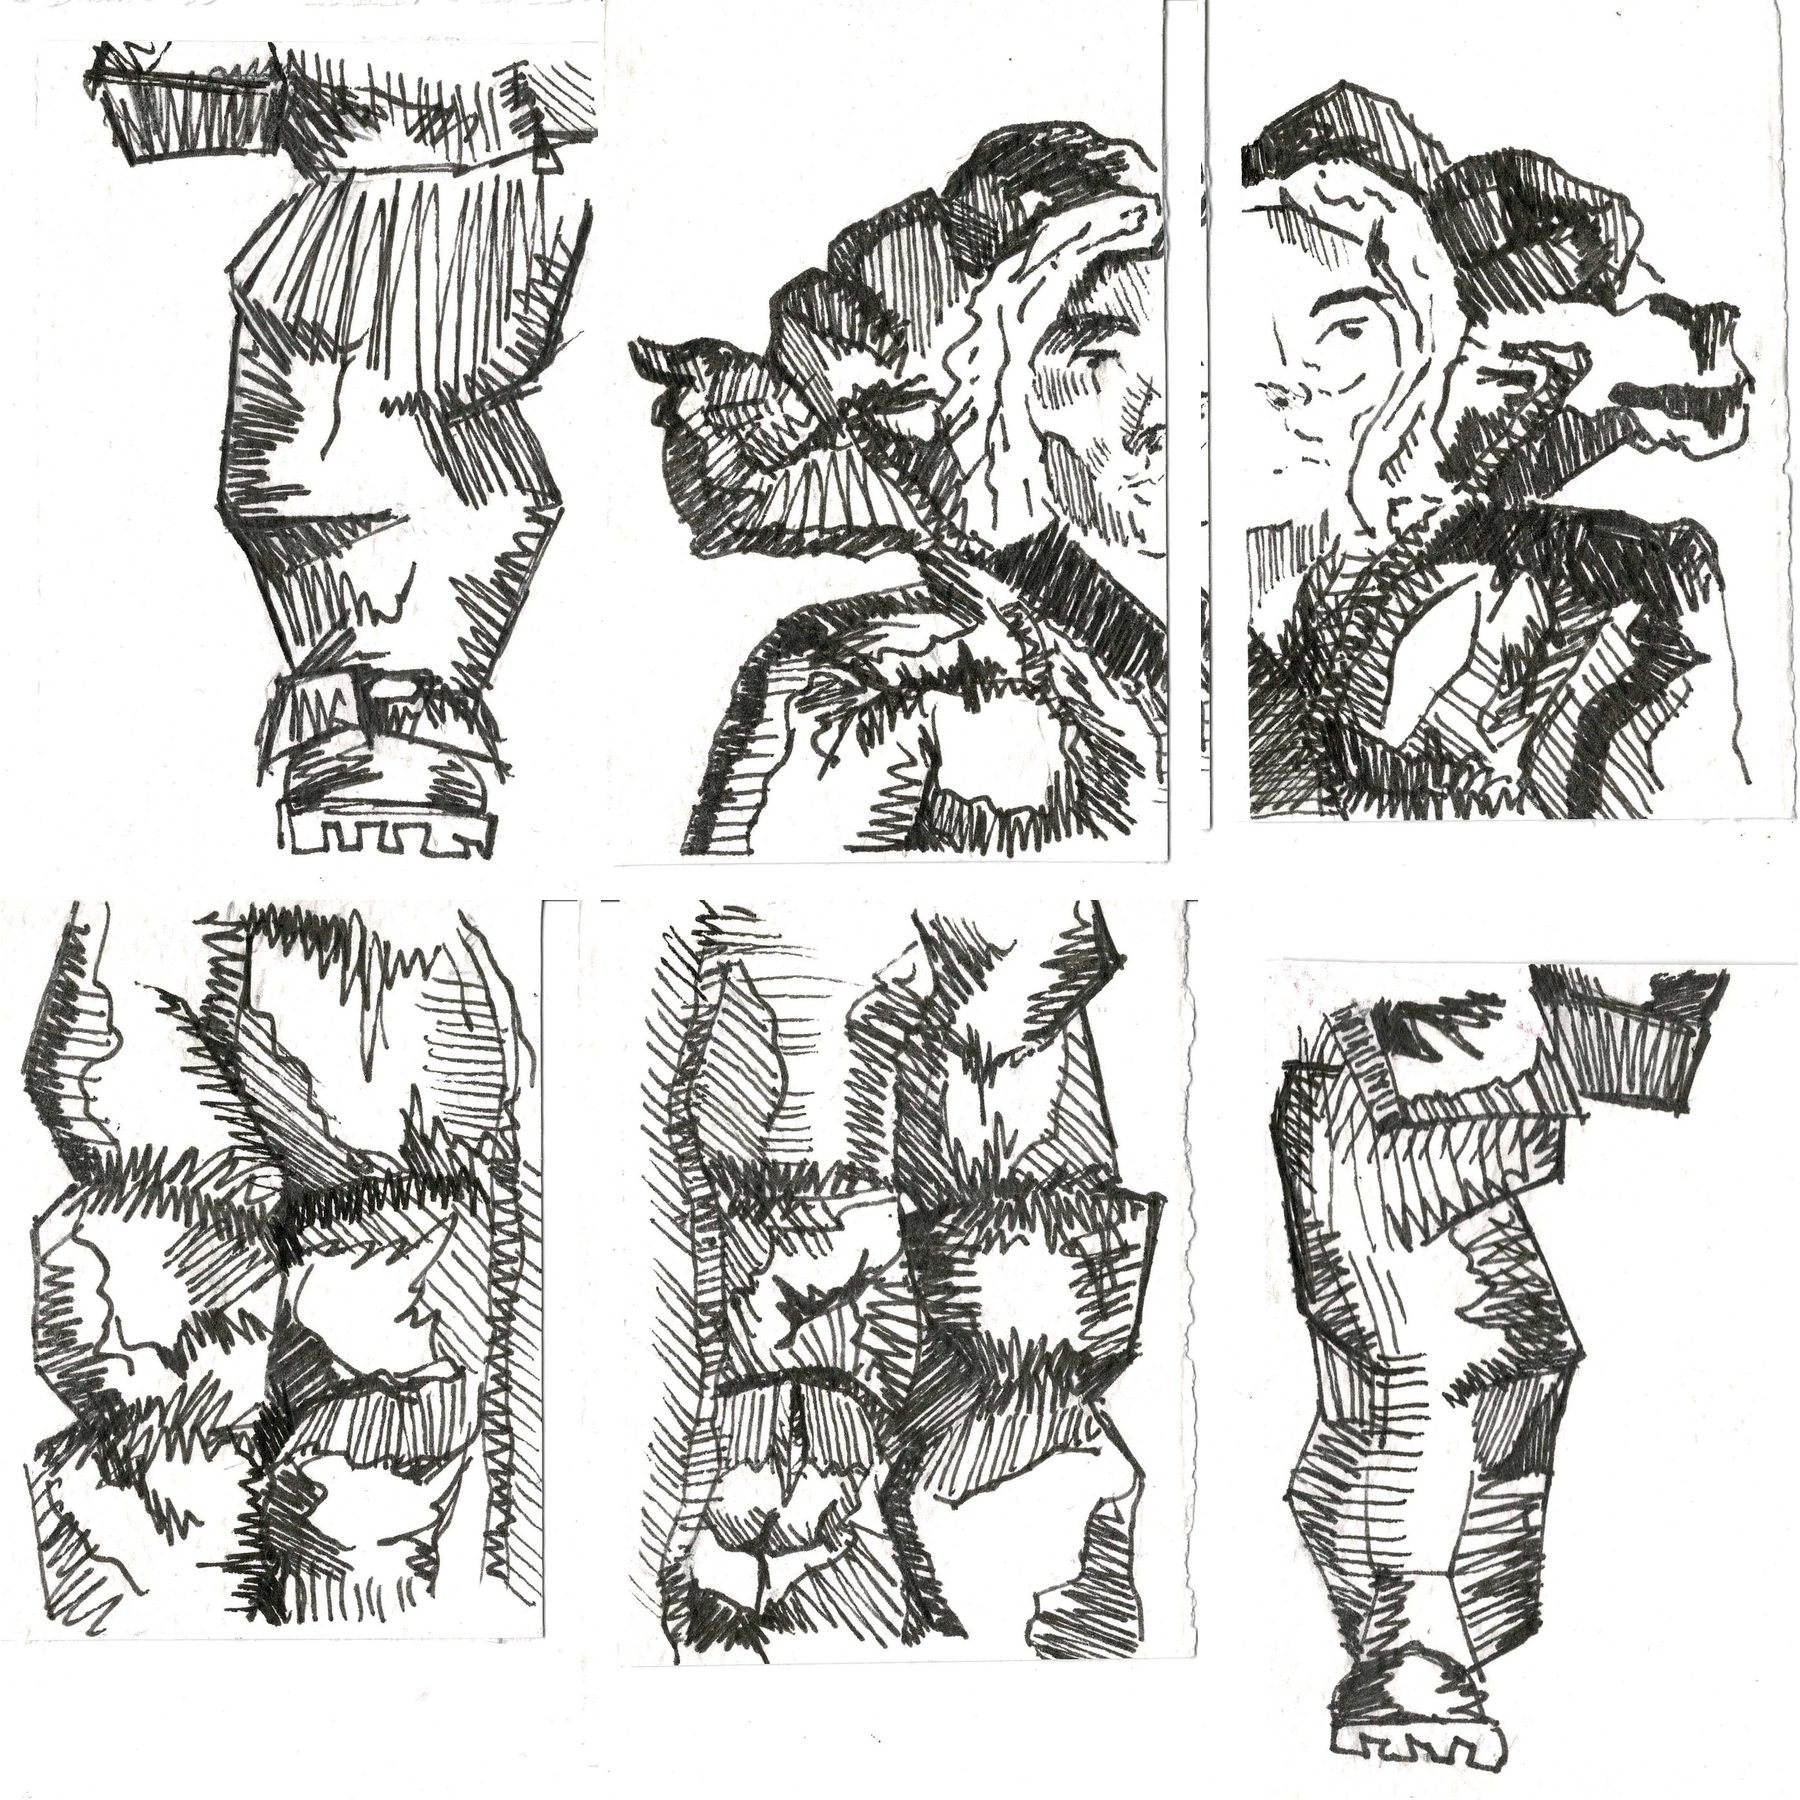
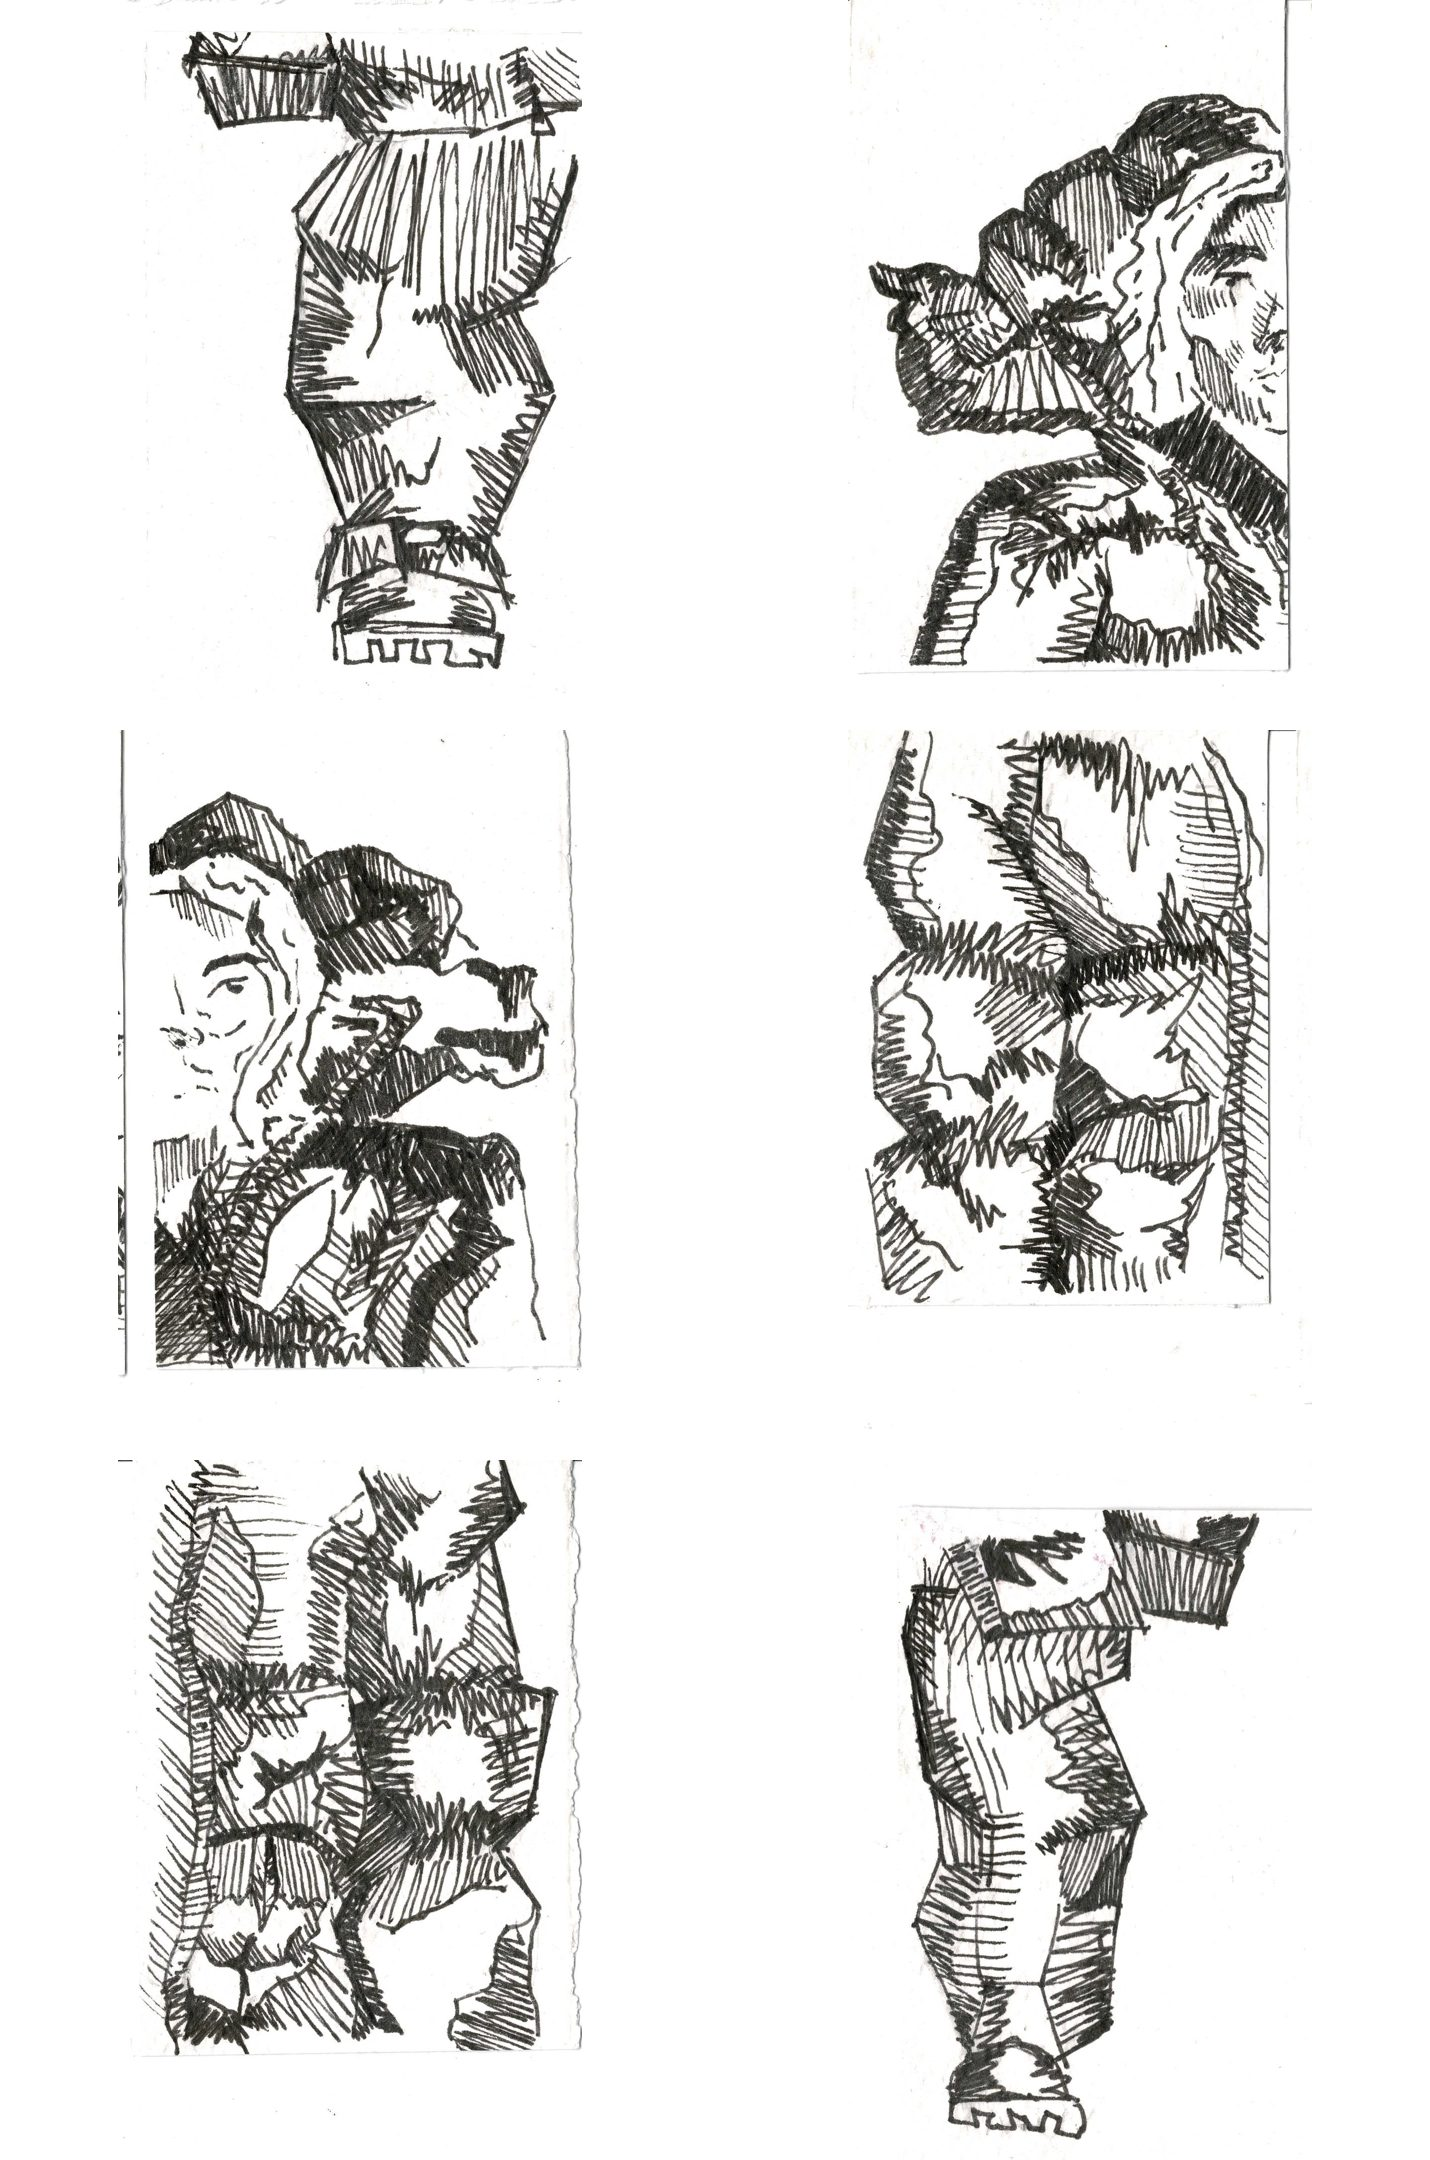
Splash copy tighter with smaller contact line, 2x3 set composite, fixed viewer layout
Claude-Session: https://claude.ai/code/session_01BkXbMLE1waQM2w8WQDFCxN

diff --git a/index.html b/index.html
@@ -120,14 +120,27 @@
       color: #111111;
       cursor: pointer;
     }
+    /* Fixed layout: every piece sits in the same slot and the text column never moves */
     .view-wrap {
+      display: grid;
+      grid-template-columns: 56vw 360px;
+      grid-template-rows: 84vh;
+      align-items: center;
+      justify-content: center;
+      column-gap: 72px;
+      width: 100%;
+      max-width: 1200px;
+    }
+    .slot {
+      width: 56vw;
+      height: 84vh;
       display: flex;
       align-items: center;
       justify-content: center;
-      gap: 72px;
-      width: 100%;
-      max-width: 1200px;
-      flex-wrap: wrap;
+    }
+    @media (max-width: 800px) {
+      .view-wrap { grid-template-columns: 1fr; grid-template-rows: 60vh auto; row-gap: 24px; }
+      .slot { width: 100%; height: 60vh; }
     }
     .mat { transition: transform 0.12s ease-out; }
     .mat img {
@@ -428,6 +441,10 @@
       width: 100%;
       justify-content: space-between;
     }
+    /* Tighter line spacing, smaller unbolded contact line */
+    .splash-text p { line-height: 1.05 !important; margin: 0 0 0.35em !important; }
+    .splash-text p.contact { font-size: 0.55em !important; font-weight: 400 !important; line-height: 1.2 !important; }
+    .splash-text p.contact a { font-weight: 400 !important; }
     /* Pieces always sit on white, even while the black splash is fading */
     .tile { background: #ffffff !important; }
     .tile img { background: #ffffff !important; }
@@ -531,7 +548,7 @@
         <p>Hello and welcome to my gallery, my name is Matthew and this is all original work from 2015 to now.</p>
         <p>Melbourne, Australia.</p>
         <p>Available to purchase.</p>
-        <p>Contact for commissions: <a href="mailto:matthewhannna@gmail.com">matthewhannna@gmail.com</a></p>
+        <p class="contact">Contact for commissions <a href="mailto:matthewhannna@gmail.com">matthewhannna@gmail.com</a></p>
       </div>
     </div>
   </div>
@@ -539,7 +556,7 @@
   <div class="viewer" id="viewer" role="dialog" aria-modal="true" aria-label="Artwork details">
     <button class="close" type="button" aria-label="Close" id="close">&times;</button>
     <div class="view-wrap">
-      <div class="mat" id="mat"><img id="vimg" src="" alt=""></div>
+      <div class="slot"><div class="mat" id="mat"><img id="vimg" src="" alt=""></div></div>
       <div class="details">
         <h3 class="v-title" id="vtitle"></h3>
         <p class="v-medium" id="vmedium"></p>
